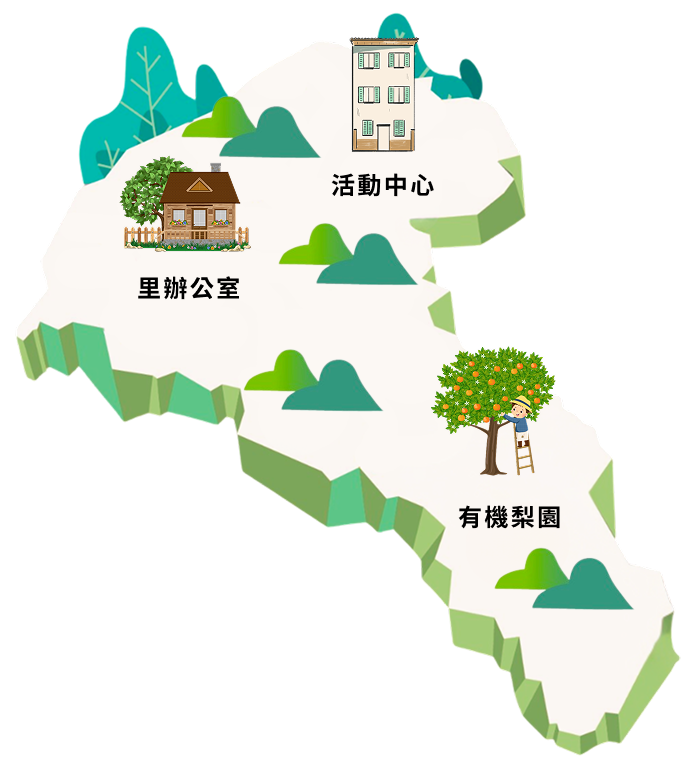
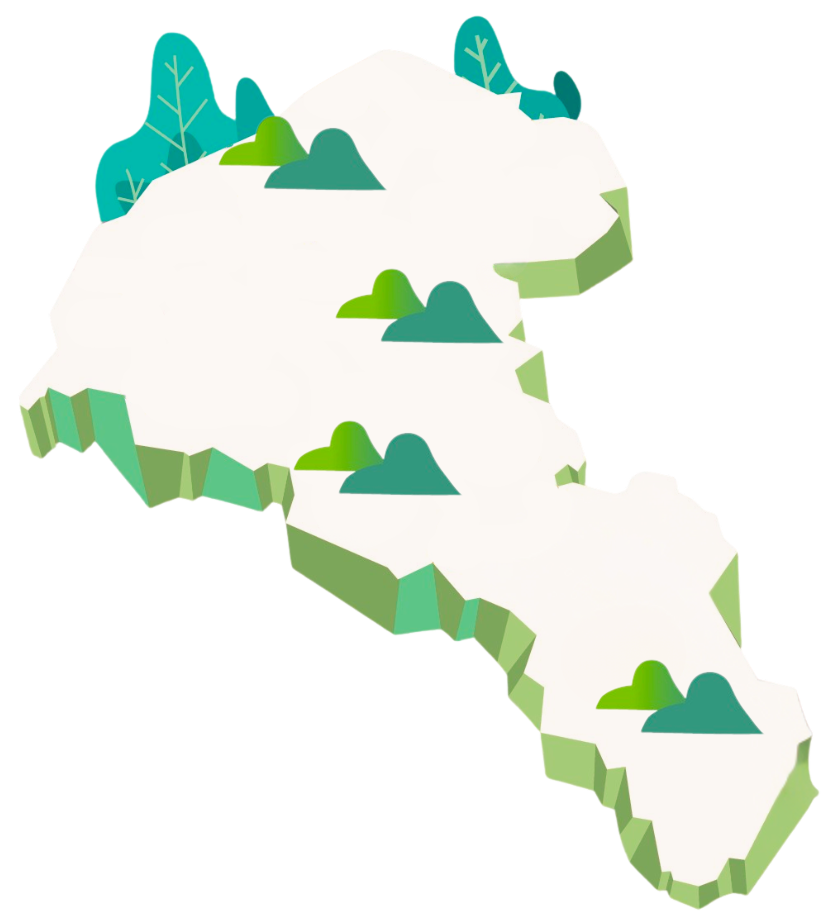
feat(AboutView.vue):新增互動地圖功能與美化

diff --git a/src/views/About/AboutView.vue b/src/views/About/AboutView.vue
@@ -5,22 +5,34 @@
   import 'aos/dist/aos.css';
 
   function scrollToTop() {
-    window.scrollTo({ top: 0, behavior: 'smooth' });
+    const mapContainer = document.querySelector('.about-section');
+    if (mapContainer) {
+      mapContainer.scrollIntoView({
+        behavior: 'smooth',
+        block: 'start'
+      });
+    } else {
+      window.scrollTo({ top: 0, behavior: 'smooth' });
+    }
+  }
+
+  function scrollToSection(sectionId) {
+    const element = document.getElementById(sectionId);
+    if (element) {
+      element.scrollIntoView({
+        behavior: 'smooth',
+        block: 'start'
+      });
+    }
   }
 
   onMounted(() => {
     AOS.init({
-      once: false, // 每次進 viewport 都動畫
+      once: false,
       duration: 900,
       offset: 80,
     });
-    // 確保動畫正確（有時 SPA 元素動態渲染）
-    setTimeout(() => {
-      AOS.refreshHard();
-    }, 250);
-  });
 
-  onUpdated(() => {
     setTimeout(() => {
       AOS.refreshHard();
     }, 250);
@@ -42,7 +54,7 @@
       <h1 class="bold">空瀧浪里 就像這樣</h1>
     </div>
   </section> -->
-    <section class="about-section">
+    <section class="about-section" id="about-section">
        <div class="container">
     <div class="breadcrumb">
       <RouterLink to="/">
@@ -55,23 +67,39 @@
     </div>
     </div>
 
-
       <div class="map-container">
-        <img
-          src="../../assets/image/about_map.png"
-          alt="社區地圖"
-          class="map-image"
-          data-aos="fade"
-        />
+      <img src="../../assets/image/about_map.png" alt="社區地圖" class="map-image" />
+      <img src="../../assets/image/about01.gif" alt="動態圖" class="custom-gif01" />
 
-        <!-- 說明文字泡泡 -->
-        <div class="speech-bubble">
-          <p class="">您的社區好厝邊，辦事親切有效率，活動服務樣樣通，歡迎隨時來坐坐！</p>
+        <div class="location-marker location-center" data-aos="zoom-in">
+          <img src="../../assets/image/about_center.png" alt="活動中心" class="location-icon clickable "   @click="scrollToSection('mayor-intro3')" />
+          <div class="location-label-center">活動中心</div>
+          <div class="speech-bubble">
+            <p>社區活動多元，聚會聯誼好去處，里民互動成長，歡迎參加每場活動！</p>
+          </div>
+        </div>
+
+        <div class="location-marker location-office" data-aos="zoom-in">
+        <img src="../../assets/image/about_office.png" alt="里辦公室" class="location-icon clickable" @click="scrollToSection('mayor-intro')"/>
+          <div class="location-label-office">里辦公室</div>
+          <div class="speech-bubble">
+            <p>您的社區好厝邊，辦事親切有效率，活動服務樣樣通，歡迎隨時來坐坐！</p>
+          </div>
+        </div>
+
+        <div class="location-marker location-farm" data-aos="zoom-in">
+        <img src="../../assets/image/about_farm.png" alt="有機梨園" class="location-icon clickable" @click="scrollToSection('mayor-intro2')"/>
+          <div class="location-label-farm">有機梨園</div>
+          <div class="speech-bubble">
+            <p>自然農法共耕，農事體驗，親近自然，親子踏青，樂在美好生活。</p>
+          </div>
         </div>
       </div>
 
+
       <!-- 下方描述文字 -->
       <div class="about-text-container">
+        <img src="../../assets/image/about02.gif" alt="動態圖" class="custom-gif02" />
         <div
           class="about-text"
           data-aos="fade"
@@ -88,7 +116,7 @@
         </div>
       </div>
     </section>
-    <section class="mayor-intro">
+    <section class="mayor-intro" id="mayor-intro">
       <div class="leader-info">
         <h2 class="bold">里長簡介</h2>
       </div>
@@ -175,7 +203,7 @@
         </p>
       </div>
     </section>
-    <section class="mayor-intro2">
+    <section class="mayor-intro2" id="mayor-intro2">
       <div class="leader-info">
         <h2 class="bold">特色農產</h2>
       </div>
@@ -239,7 +267,7 @@
         </p>
       </div>
     </section>
-    <section class="mayor-intro3">
+    <section class="mayor-intro3" id="mayor-intro3">
       <div class="leader-info">
         <h2 class="bold">活動中心</h2>
       </div>
@@ -336,6 +364,8 @@
     color: $black;
   }
   .section-title {
+    max-width: 1920px;
+    margin: 0 auto;
     margin-bottom: 40px;
     position: relative;
     text-align: center;
@@ -384,50 +414,135 @@
 }
 }
 
-
-
   // 地圖區塊
-  // .about-section {
-  // }
-  .map-container {
-    position: relative;
-    max-width: 683px;
-    margin: 0 auto;
 
+  .map-container {
+      position: relative; 
+      max-width: 683px;
+      margin: 0 auto; 
     .map-image {
-      position: relative;
-      top: 100px;
-      width: 100%;
-      display: block;
-      border-radius: 12px;
-    }
-    .speech-bubble {
+        position: relative; 
+        top: 100px;
+        display: block;
+        width: 100%;
+        height: auto; 
+        z-index: 1;
+     }
+    .location-marker {
       position: absolute;
-      top: 40%;
-      left: 80%;
-      width: clamp(168px,14vw,14vw);
-      height: clamp(180px,8.2vw,8.2vw);
-      background: white;
-      padding: 32px;
-      border-radius: $border-r-lg;
-      box-shadow: 0 0 8px rgba(0, 0, 0, 0.1);
-      text-align: left;
-      p{
-        font-family: $font-sans;
-        font-size: clamp(14px,1vw,20px);
-        font-style: normal;
-        font-weight: 400;
-        line-height: 150%;
-        letter-spacing: 0.2em;
-      }
+        .speech-bubble {
+          position: absolute;
+          bottom: 120%; 
+          left: 50%;
+          transform: translateX(-50%);
+          display: none; 
+          width: 180px;
+          background: #ffffff;
+          color: #000000;
+          padding: 8px 12px;
+          border-radius: 8px;
+          text-align: left;
+          font-size: 14px;
+          line-height: 1.4;
+        }
+        .speech-bubble::after {
+          content: "";
+          position: absolute;
+          top: 100%; 
+          left: 50%;
+          transform: translateX(-50%);
+          border-width: 10px;
+          border-style: solid;
+          border-color: #ffffff transparent transparent transparent;
+        }
     }
-  }
+    .location-marker:hover .location-icon {
+    transform: scale(1.1);
+    }
+    .location-marker:hover .speech-bubble {
+    display: block;
+    @include mobile{
+            display: none;
+        }
+    }
+    .location-center { top: 17%; left: 51%; 
+      z-index: 2;
+    @include mobile{
+        top: 8%; left: 50%;
+       }}
+    .location-office { top: 35%; left: 15%; 
+      z-index: 2;
+    @include mobile{
+        top: 25%; left: 15%;
+       }}
+    .location-farm  { top: 55%; left: 63%; 
+      z-index: 2;
+    @include mobile{
+        top: 45%; left: 63%;
+       }}
+    .location-icon {
+      width: 90%;  
+      height: auto; 
+      transition: transform 0.2s ease-in-out;
+      @include mobile{
+        width: 50%;
+       }
+    }
+    .location-label-office {
+      position: absolute;
+      top: 105%;
+      left: 21%;
+      text-align: center;
+      font-size: 20px;
+      color: #333;
+      margin-top: 4px;
+      font-weight: bold;
+      @include mobile{
+        font-size: 16px;
+        top: 105%;
+        left: 5%;
+       }
+    }
+    .location-label-center {
+      position: absolute;
+      top: 105%;
+      left: 1%;
+      text-align: center;
+      font-size: 20px;
+      color: #333;
+      margin-top: 4px;
+      font-weight: bold;
+      @include mobile{
+        font-size: 16px;
+        top: 106%;
+        left: -10%;
+       }
+    }
+    .location-label-farm {
+      position: absolute;
+      top: 105%;
+      left: 20%;
+      text-align: center;
+      font-size: 20px;
+      color: #333;
+      margin-top: 4px;
+      font-weight: bold;
+       @include mobile{
+        font-size: 16px;
+        top: 105%;
+        left: 5%;
+       }
+    }
+}
 
   // 關於社區簡介
   .about-text-container {
+    max-width: 1920px;
+    margin: 0 auto;
     background-color: $primary-c100;
     padding: 115px;
     text-align: center;
+    position: relative;
     @include flex-center;
     .about-text {
       width: 788px;
@@ -650,7 +765,7 @@
         }
       }
       .map-container {
-        max-width: 100vw;
+        max-width: 90vw;
         .map-image {
           top: 4vw;
           border-radius: 4vw;
@@ -776,4 +891,38 @@
       align-items: center;
     }
   }
+  
+  .clickable {
+  cursor: pointer;
+  transition: transform 0.2s;
+  }
+
+  .clickable:hover {
+    transform: scale(1.1);
+  }
+  
+  .custom-gif01 {
+  position: absolute;
+  top: 25%;    
+  right: -20%;   
+  width: 172px; 
+  height: auto;
+  // z-index: 10; 
+  pointer-events: none; 
+  @include mobile{
+    display: none;
+   }
+  }
+  .custom-gif02 {
+    position: absolute;
+    top: -20%;    
+    left: 5%;   
+    width: 172px; 
+    height: auto;
+    z-index: 10; 
+    pointer-events: none; 
+    @include mobile{
+    display: none;
+   }
+  } 
 </style>
